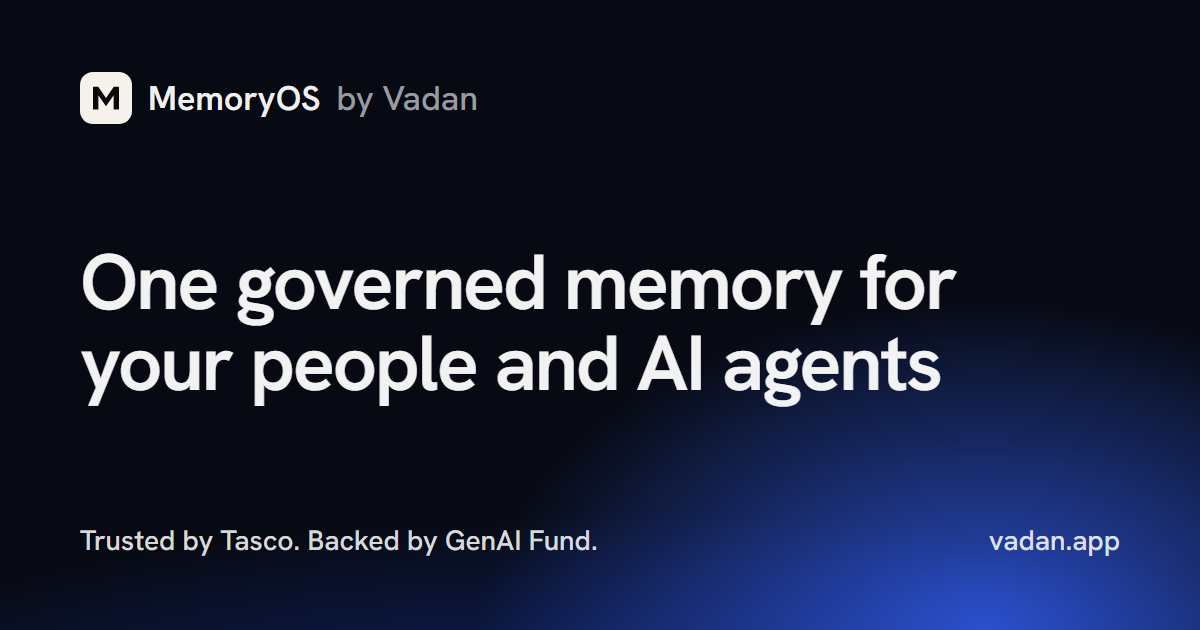
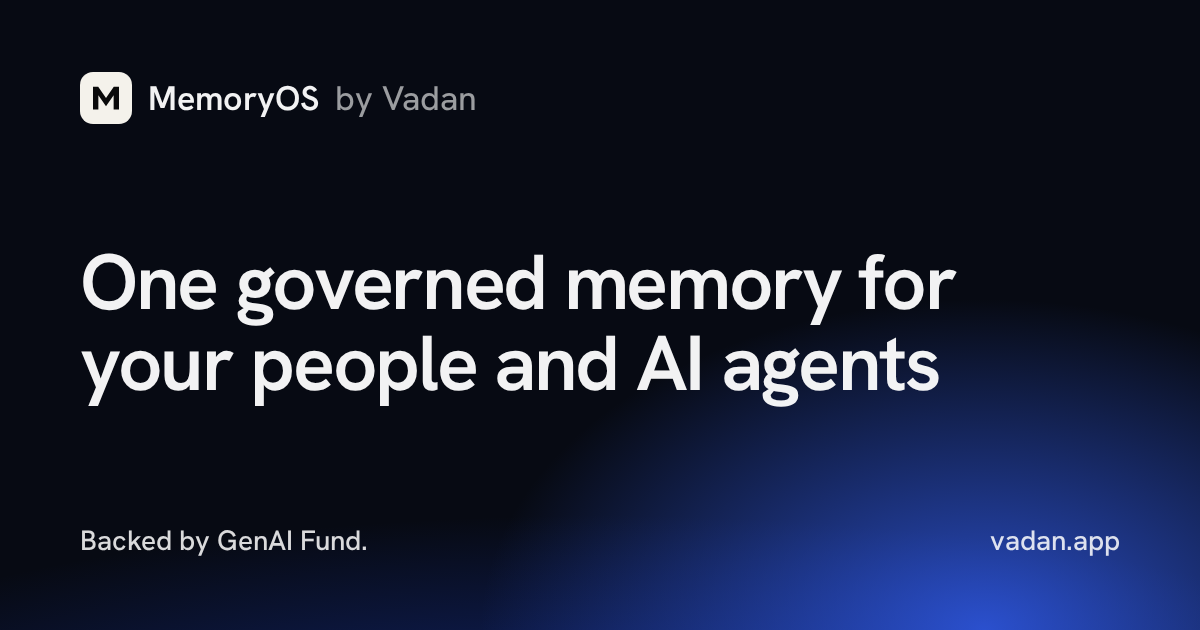
fix(landing): remove former customer endorsement

diff --git a/landing/src/content.ts b/landing/src/content.ts
@@ -1,5 +1,4 @@
 import genaiFundLogo from "@/assets/logos/genai-fund.png";
-import tascoLogo from "@/assets/logos/tasco.png";
 import vadanLogo from "@/assets/logos/vadan.png";
 
 /*
@@ -80,11 +79,6 @@ type TrustSignal = Entry & {
 };
 
 const trustSignals: readonly TrustSignal[] = [
-  {
-    title: "Trusted by Tasco",
-    description: "Our first enterprise design partner brings MemoryOS to its leaders and managers.",
-    logo: { src: tascoLogo, label: "Tasco" },
-  },
   {
     title: "Backed by GenAI Fund",
     description: "Vadan builds MemoryOS with backing from GenAI Fund.",
@@ -331,7 +325,8 @@ const faq: SectionIntro & { items: readonly { question: string; answer: string }
     },
     {
       question: "Who uses MemoryOS today?",
-      answer: "Tasco is our first enterprise design partner. Vadan is backed by GenAI Fund.",
+      answer:
+        "MemoryOS is currently used in a university capstone project. Vadan is backed by GenAI Fund.",
     },
     {
       question: "How do we start?",

diff --git a/landing/src/sections/trust-strip.tsx b/landing/src/sections/trust-strip.tsx
@@ -3,16 +3,12 @@ import { trustSignals } from "@/content";
 function TrustStrip() {
   return (
     <section
-      aria-label="Design partner and backing"
+      aria-label="Funding and backing"
       className="border-y border-border-subtle bg-surface-raised px-[var(--page-gutter)]"
     >
-      <ul className="mx-auto grid max-w-[var(--page-width-wide)] divide-y divide-border-subtle sm:grid-cols-2 sm:divide-x sm:divide-y-0">
+      <ul className="mx-auto flex max-w-[var(--page-width-wide)] justify-center">
         {trustSignals.map(({ title, description, logo }) => (
-          <li
-            key={title}
-            className="flex items-center gap-5 py-6 sm:gap-6 sm:py-8 sm:pr-8 sm:not-first:pl-8"
-          >
-            {/* A fixed box with `contain` balances a wide wordmark against a compact one. */}
+          <li key={title} className="flex items-center gap-5 py-6 sm:gap-6 sm:py-8">
             <span
               role="img"
               aria-label={logo.label}

diff --git a/landing/scripts/og-image.html b/landing/scripts/og-image.html
@@ -82,7 +82,7 @@
     </div>
     <h1>One governed memory for your people and AI agents</h1>
     <div class="footer">
-      <p>Trusted by Tasco. Backed by GenAI Fund.</p>
+      <p>Backed by GenAI Fund.</p>
       <p>vadan.app</p>
     </div>
   </body>
